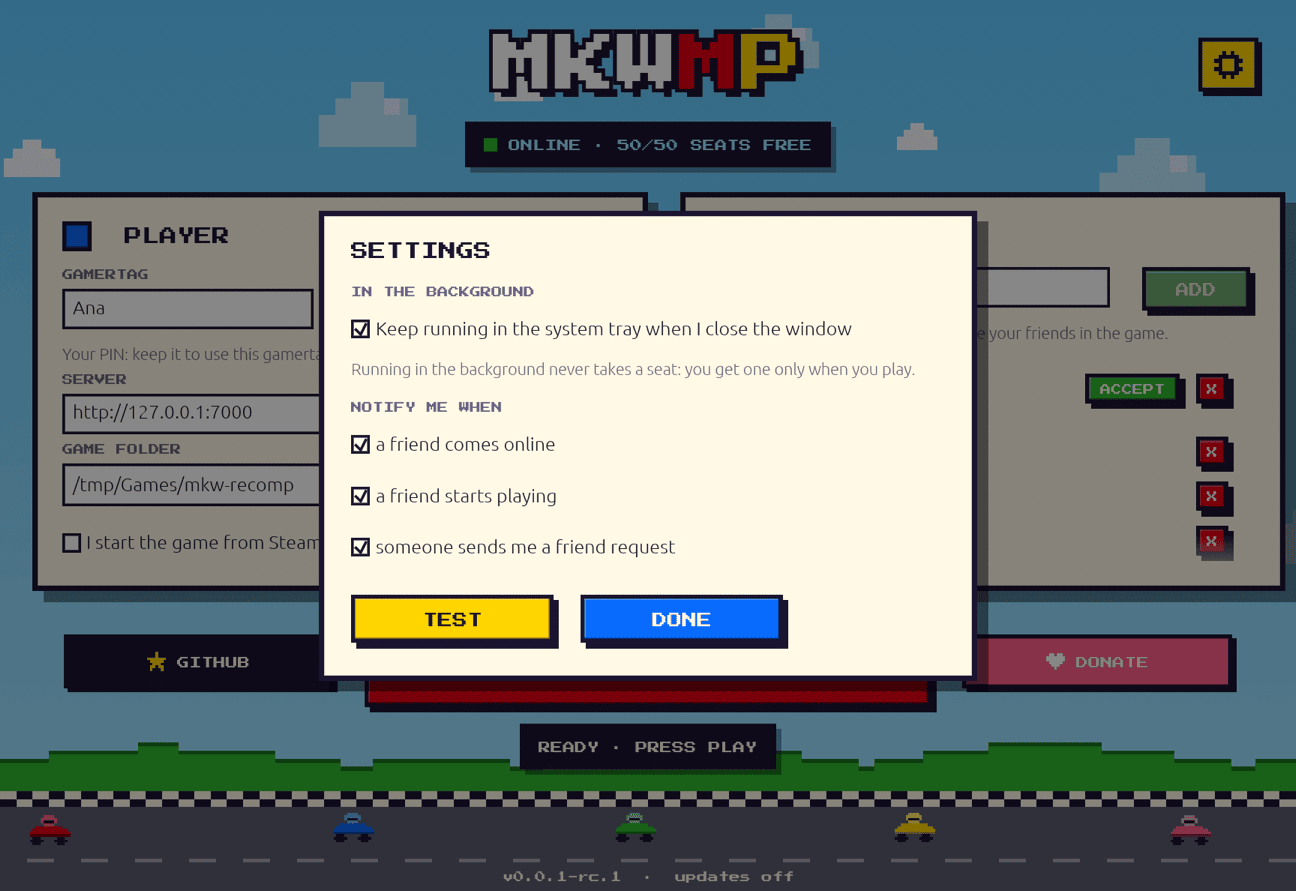
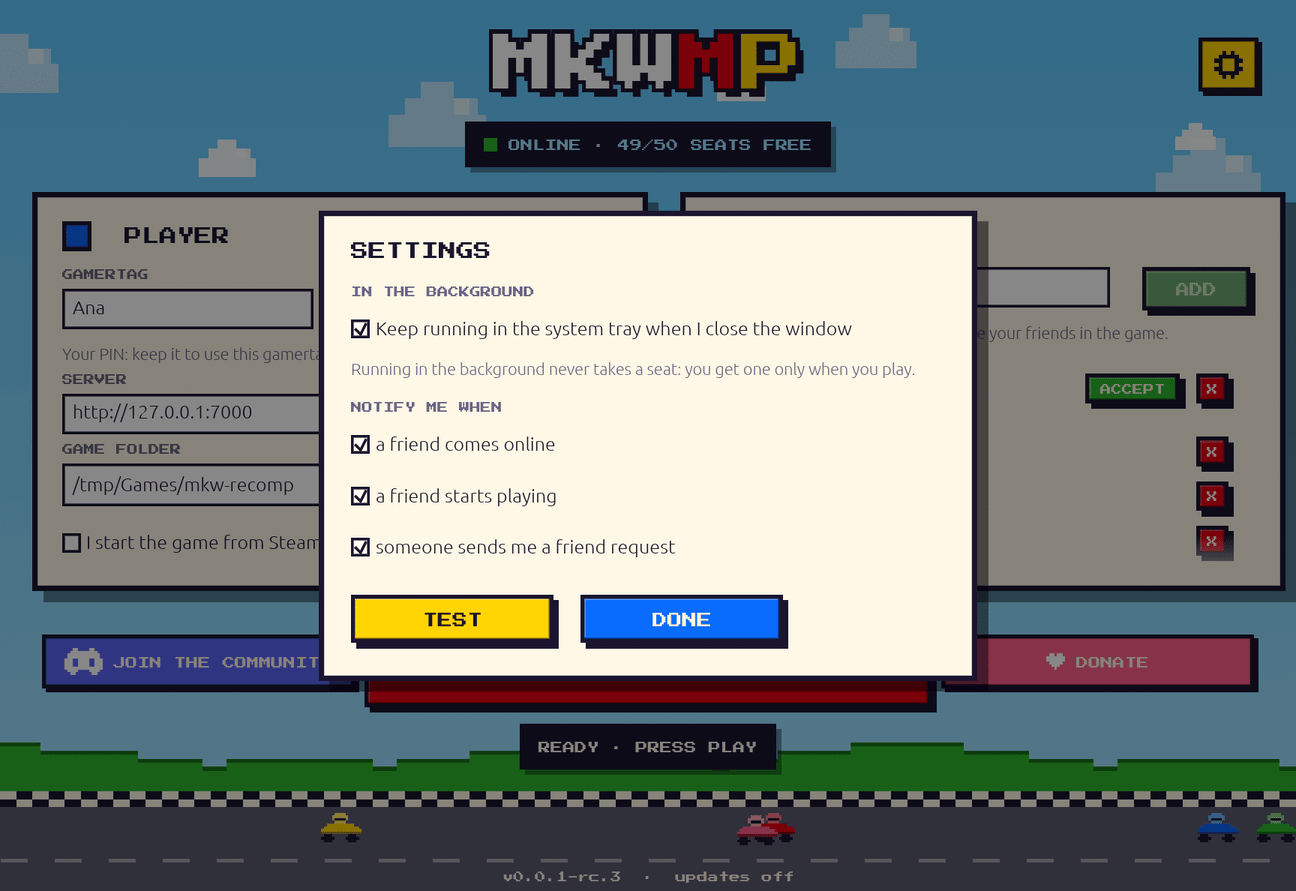
Launcher: Discord "Join the community" button replaces GitHub; v0.0.1-rc.3
The GitHub star fetch is gone with the button. Site and README link the
Discord too; launcher screenshots retaken.

Claude-Session: https://claude.ai/code/session_01McdierMtu2Gdm9Hs8K5YCP

diff --git a/site/index.html b/site/index.html
@@ -21,6 +21,7 @@
       <a class="btn blue" href="#install">⬇ Install</a>
       <a class="btn green" href="#steamos">◆ Steam Deck</a>
       <a class="btn yellow" href="#host">★ Host a server</a>
+      <a class="btn discord" href="https://discord.gg/ysb3Mek6QQ">Join the community</a>
       <a class="btn pink" href="https://ko-fi.com/anarqz">♥ Donate</a>
     </nav>
     <div class="server" id="server" aria-live="polite">
@@ -37,7 +38,7 @@
 
   <section class="panel note">
     <h2><span class="coin">!</span> STATUS</h2>
-    <p><b>Developer preview</b> (<a href="https://github.com/anarqz/mkwmp/releases">v0.0.1-rc.2</a>). Online <b>races and battles</b> work end to end: full matches, from the vote to the results and back to the lobby, were played on the first lobby server. The new lobby server, with any number of lobbies, is <b>being tested</b> now. <b>Friend rooms</b> (Room ID and password) and <b>self-hosted servers</b> with the real game are being tested too.</p>
+    <p><b>Developer preview</b> (<a href="https://github.com/anarqz/mkwmp/releases">v0.0.1-rc.3</a>). Online <b>races and battles</b> work end to end: full matches, from the vote to the results and back to the lobby, were played on the first lobby server. The new lobby server, with any number of lobbies, is <b>being tested</b> now. <b>Friend rooms</b> (Room ID and password) and <b>self-hosted servers</b> with the real game are being tested too.</p>
   </section>
 
   <section id="launcher" class="panel">

diff --git a/site/style.css b/site/style.css
@@ -106,6 +106,7 @@ h1 .y { color: var(--yellow); }
 .btn.green  { --c: var(--green);  --d: var(--green-d); }
 .btn.yellow { --c: var(--yellow); --d: var(--yellow-d); color: var(--ink); }
 .btn.pink   { --c: #ff5e8a;      --d: #a81f4a; }
+.btn.discord { --c: #5865f2;    --d: #3c45a5; }
 
 /* ---- live server widget ------------------------------------------------ */
 .server {

diff --git a/rust/client/src/gui.rs b/rust/client/src/gui.rs
@@ -35,7 +35,7 @@ const MUTED: Color32 = Color32::from_rgb(0x6b, 0x63, 0x86);
 const SKY_TEXT: Color32 = Color32::from_rgb(0xa6, 0xe3, 0xff);
 const PINK: Color32 = Color32::from_rgb(0xff, 0x5e, 0x8a);
 const PINK_D: Color32 = Color32::from_rgb(0xa8, 0x1f, 0x4a);
-pub const REPO_URL: &str = "https://github.com/anarqz/mkwmp";
+pub const DISCORD_URL: &str = "https://discord.gg/ysb3Mek6QQ";
 pub const DONATE_URL: &str = "https://ko-fi.com/anarqz";
 const GOOD: Color32 = Color32::from_rgb(0x7d, 0xff, 0x7d);
 const BAD: Color32 = Color32::from_rgb(0xff, 0x8a, 0x8a);
@@ -286,7 +286,7 @@ impl eframe::App for App {
                 }
             });
             ui.add_space(6.0);
-            self.play_row(ui, busy, st.stars);
+            self.play_row(ui, busy);
             status_pill(ui, &st, &self.draft, &self.error);
         });
 
@@ -643,12 +643,12 @@ impl App {
         }
     }
 
-    /// GITHUB · PLAY · DONATE in one row.
-    fn play_row(&mut self, ui: &mut egui::Ui, busy: bool, stars: Option<u64>) {
+    /// DISCORD · PLAY · DONATE in one row.
+    fn play_row(&mut self, ui: &mut egui::Ui, busy: bool) {
         let (row, _) = ui.allocate_exact_size(vec2(COLUMN, 72.0), Sense::hover());
         let play = Rect::from_center_size(row.center(), vec2(420.0, 68.0));
-        let side = vec2(200.0, 40.0);
-        let gh = Rect::from_center_size(pos2((row.left() + play.left()) / 2.0, row.center().y), side);
+        let side = vec2(232.0, 40.0);
+        let discord = Rect::from_center_size(pos2((row.left() + play.left()) / 2.0, row.center().y), side);
         let kofi = Rect::from_center_size(pos2((play.right() + row.right()) / 2.0, row.center().y), side);
 
         let problem = self.draft.problem();
@@ -665,15 +665,10 @@ impl App {
             }
         }
 
-        let gh_text = match stars {
-            Some(n) if n > 0 => format!("GITHUB · {n}"),
-            Some(_) => "GITHUB".to_string(),
-            None => "GITHUB".to_string(),
-        };
-        if icon_button(ui, gh, &gh_text, &STAR, INK, Color32::from_rgb(0x3a, 0x2f, 0x66), YELLOW).clicked() {
-            let _ = open::that(REPO_URL);
+        if icon_button(ui, discord, "JOIN THE COMMUNITY", &DISCORD, BLURPLE, BLURPLE_D, Color32::WHITE, DISCORD_URL).clicked() {
+            let _ = open::that(DISCORD_URL);
         }
-        if icon_button(ui, kofi, "DONATE", &HEART, PINK, PINK_D, Color32::WHITE).clicked() {
+        if icon_button(ui, kofi, "DONATE", &HEART, PINK, PINK_D, Color32::WHITE, DONATE_URL).clicked() {
             let _ = open::that(DONATE_URL);
         }
     }
@@ -704,7 +699,21 @@ fn gear_button(ui: &mut egui::Ui, rect: Rect) -> Response {
     resp.on_hover_text("Settings: tray, notifications, start-up")
 }
 
-const STAR: [&str; 7] = ["...#...", "...#...", "#######", ".#####.", "..###..", ".##.##.", ".#...#."];
+/// The Discord mark (the controller face), in pixels.
+const DISCORD: [&str; 10] = [
+    "...##....##...",
+    "..##########..",
+    ".############.",
+    ".############.",
+    "###..####..###",
+    "###..####..###",
+    "###..####..###",
+    "##############",
+    ".####....####.",
+    "..##......##..",
+];
+const BLURPLE: Color32 = Color32::from_rgb(0x58, 0x65, 0xf2);
+const BLURPLE_D: Color32 = Color32::from_rgb(0x3c, 0x45, 0xa5);
 const HEART: [&str; 6] = [".##.##.", "#######", "#######", ".#####.", "..###..", "...#..."];
 
 /// A tiny bitmap icon, `cell` points per pixel.
@@ -719,7 +728,8 @@ fn paint_icon(p: &egui::Painter, at: egui::Pos2, rows: &[&str], cell: f32, color
 }
 
 /// A small pixel button at `rect` with a bitmap icon before its label.
-fn icon_button(ui: &mut egui::Ui, rect: Rect, text: &str, icon: &[&str], fill: Color32, dark: Color32, icon_color: Color32) -> Response {
+#[allow(clippy::too_many_arguments)]
+fn icon_button(ui: &mut egui::Ui, rect: Rect, text: &str, icon: &[&str], fill: Color32, dark: Color32, icon_color: Color32, hover: &str) -> Response {
     let resp = ui.interact(rect, ui.scope_id().with(text), Sense::click());
     let pressed = resp.is_pointer_button_down_on();
     let r = if pressed { rect.translate(vec2(3.0, 3.0)) } else { rect };
@@ -734,7 +744,7 @@ fn icon_button(ui: &mut egui::Ui, rect: Rect, text: &str, icon: &[&str], fill: C
     let font = pixel(9.0);
     let galley = p.layout_no_wrap(text.to_string(), font, PAPER);
     let cell = 2.0;
-    let icon_w = 7.0 * cell;
+    let icon_w = icon.first().map_or(0, |r| r.len()) as f32 * cell;
     let total = icon_w + 8.0 + galley.size().x;
     let x0 = r.center().x - total / 2.0;
     paint_icon(p, pos2(x0, r.center().y - icon.len() as f32 * cell / 2.0), icon, cell, icon_color);
@@ -742,7 +752,7 @@ fn icon_button(ui: &mut egui::Ui, rect: Rect, text: &str, icon: &[&str], fill: C
     if resp.hovered() {
         ui.ctx().set_cursor_icon(egui::CursorIcon::PointingHand);
     }
-    resp.on_hover_text(if icon.len() == 7 { REPO_URL } else { DONATE_URL })
+    resp.on_hover_text(hover)
 }
 
 /// A cream panel with a thick ink border, hard drop shadow and a coin heading.

diff --git a/rust/client/src/core.rs b/rust/client/src/core.rs
@@ -56,8 +56,6 @@ pub struct FriendsUi {
 pub struct Ui {
     pub cfg: ClientConfig,
     pub register: RegisterView,
-    /// GitHub stars of the project (None until fetched).
-    pub stars: Option<u64>,
     pub server: ServerView,
     pub session: SessionView,
     pub friends: FriendsUi,
@@ -90,7 +88,6 @@ impl Core {
             ui: Mutex::new(Ui {
                 cfg,
                 register: RegisterView::Idle,
-                stars: None,
                 server: ServerView::Checking,
                 session: SessionView::Idle,
                 friends: FriendsUi::default(),
@@ -459,26 +456,6 @@ impl Core {
             };
             self.set(|u| u.server = view);
             tokio::time::sleep(Duration::from_secs(5)).await;
-        }
-    }
-
-    /// The project's GitHub star count, every 10 minutes.
-    pub async fn stars_loop(self: Arc<Self>) {
-        let http = reqwest::Client::builder()
-            .user_agent(concat!("mkwmp-launcher/", env!("CARGO_PKG_VERSION")))
-            .timeout(Duration::from_secs(10))
-            .build()
-            .expect("http client");
-        loop {
-            let url = format!("https://api.github.com/repos/{}", update::REPO);
-            if let Ok(res) = http.get(url).send().await {
-                if let Ok(v) = res.json::<serde_json::Value>().await {
-                    if let Some(n) = v["stargazers_count"].as_u64() {
-                        self.set(|u| u.stars = Some(n));
-                    }
-                }
-            }
-            tokio::time::sleep(Duration::from_secs(600)).await;
         }
     }
 

diff --git a/rust/client/src/main.rs b/rust/client/src/main.rs
@@ -124,7 +124,6 @@ fn main() {
     rt.spawn(core.clone().status_loop());
     rt.spawn(core.clone().friends_loop());
     if !a.headless {
-        rt.spawn(core.clone().stars_loop());
         notify::register();
         rt.spawn(notify::watch_loop(core.clone()));
         // Keep the start-up entry pointing at this launcher (it may have moved).

diff --git a/tools/release/notes.md b/tools/release/notes.md
@@ -1,14 +1,16 @@
 **Developer preview.** Online play works end to end on the official server. Some parts are still being tested; they are marked below.
 
-New in rc.2:
+New in rc.3:
 
-- **Host your own server.** `mkwmp-server` is the whole server in one program, for Windows or Linux.
-  - Run it (on Windows, double-click it) and answer one question: the address your friends reach you at.
-  - It creates its keys, certificate, config and gamertag database by itself, then runs.
-  - Players set the launcher's SERVER to `http://<that address>:7000`.
-  - The steps for ports, the router and troubleshooting are in the [README](https://github.com/anarqz/mkwmp#host-your-own-server). For a Linux server, Docker Compose is in the repository.
-- **Each server's own certificate.** The launcher fetches the certificate of the server you play on, and the game patch trusts it. That's what lets your game join a self-hosted server. On the official server nothing changes.
-- **Launcher:** the settings dialog no longer shows a star count of 0.
+- **Join the community.** The launcher's GitHub button is now a Discord button: https://discord.gg/ysb3Mek6QQ
+- **Reserved gamertags can sign in.** Registering a reserved gamertag now asks for its PIN, the same as a gamertag that is already taken. In rc.2 it only said the name was reserved.
+- **`launch_command`** in `client.toml`: an optional command the launcher runs to start the game (for example through Proton when the launcher is your Steam shortcut).
+- The game patch is the same as in rc.2 and is not reinstalled.
+
+From rc.2:
+
+- **Host your own server.** `mkwmp-server` is the whole server in one program, for Windows or Linux: run it, answer one question (the address your friends reach you at), and it sets itself up. Steps: [README](https://github.com/anarqz/mkwmp#host-your-own-server).
+- **Each server's own certificate.** The launcher fetches the certificate of the server you play on, and the game patch trusts it.
 
 Still in this release:
 

diff --git a/README.md b/README.md
@@ -6,7 +6,7 @@ Community online play for the [mkw-recomp](https://github.com/adriadam10/mkw-rec
 
 > MKWMP is an unofficial community project, not affiliated with or endorsed by Nintendo. You need your own copy of the game.
 >
-> **Status: developer preview** ([v0.0.1-rc.2](https://github.com/anarqz/mkwmp/releases)). Online races and battles work end to end. The new lobby server, friend rooms and self-hosted servers with the real game are being tested.
+> **Status: developer preview** ([v0.0.1-rc.3](https://github.com/anarqz/mkwmp/releases)). Online races and battles work end to end. The new lobby server, friend rooms and self-hosted servers with the real game are being tested.
 
 ![The MKWMP launcher: gamertag and PIN, server, game folder, friends with requests and who is playing, and the PLAY button](site/img/launcher-main.png)
 
@@ -195,6 +195,8 @@ Two tests start the real `mkwmp` binary. One plays two clients from sign-in to a
 | `tools/` | release script (`tools/release`) and a local seat server helper (`tools/host`) |
 | `resources/` | research material: reverse-engineering notes and tools, captures, the original Python lobby, handoff notes |
 
-## Support
+## Community and support
+
+Join the community on [Discord](https://discord.gg/ysb3Mek6QQ).
 
 MKWMP is made by players, for players. If you'd like to help keep the official server running: [Ko-fi](https://ko-fi.com/anarqz).
